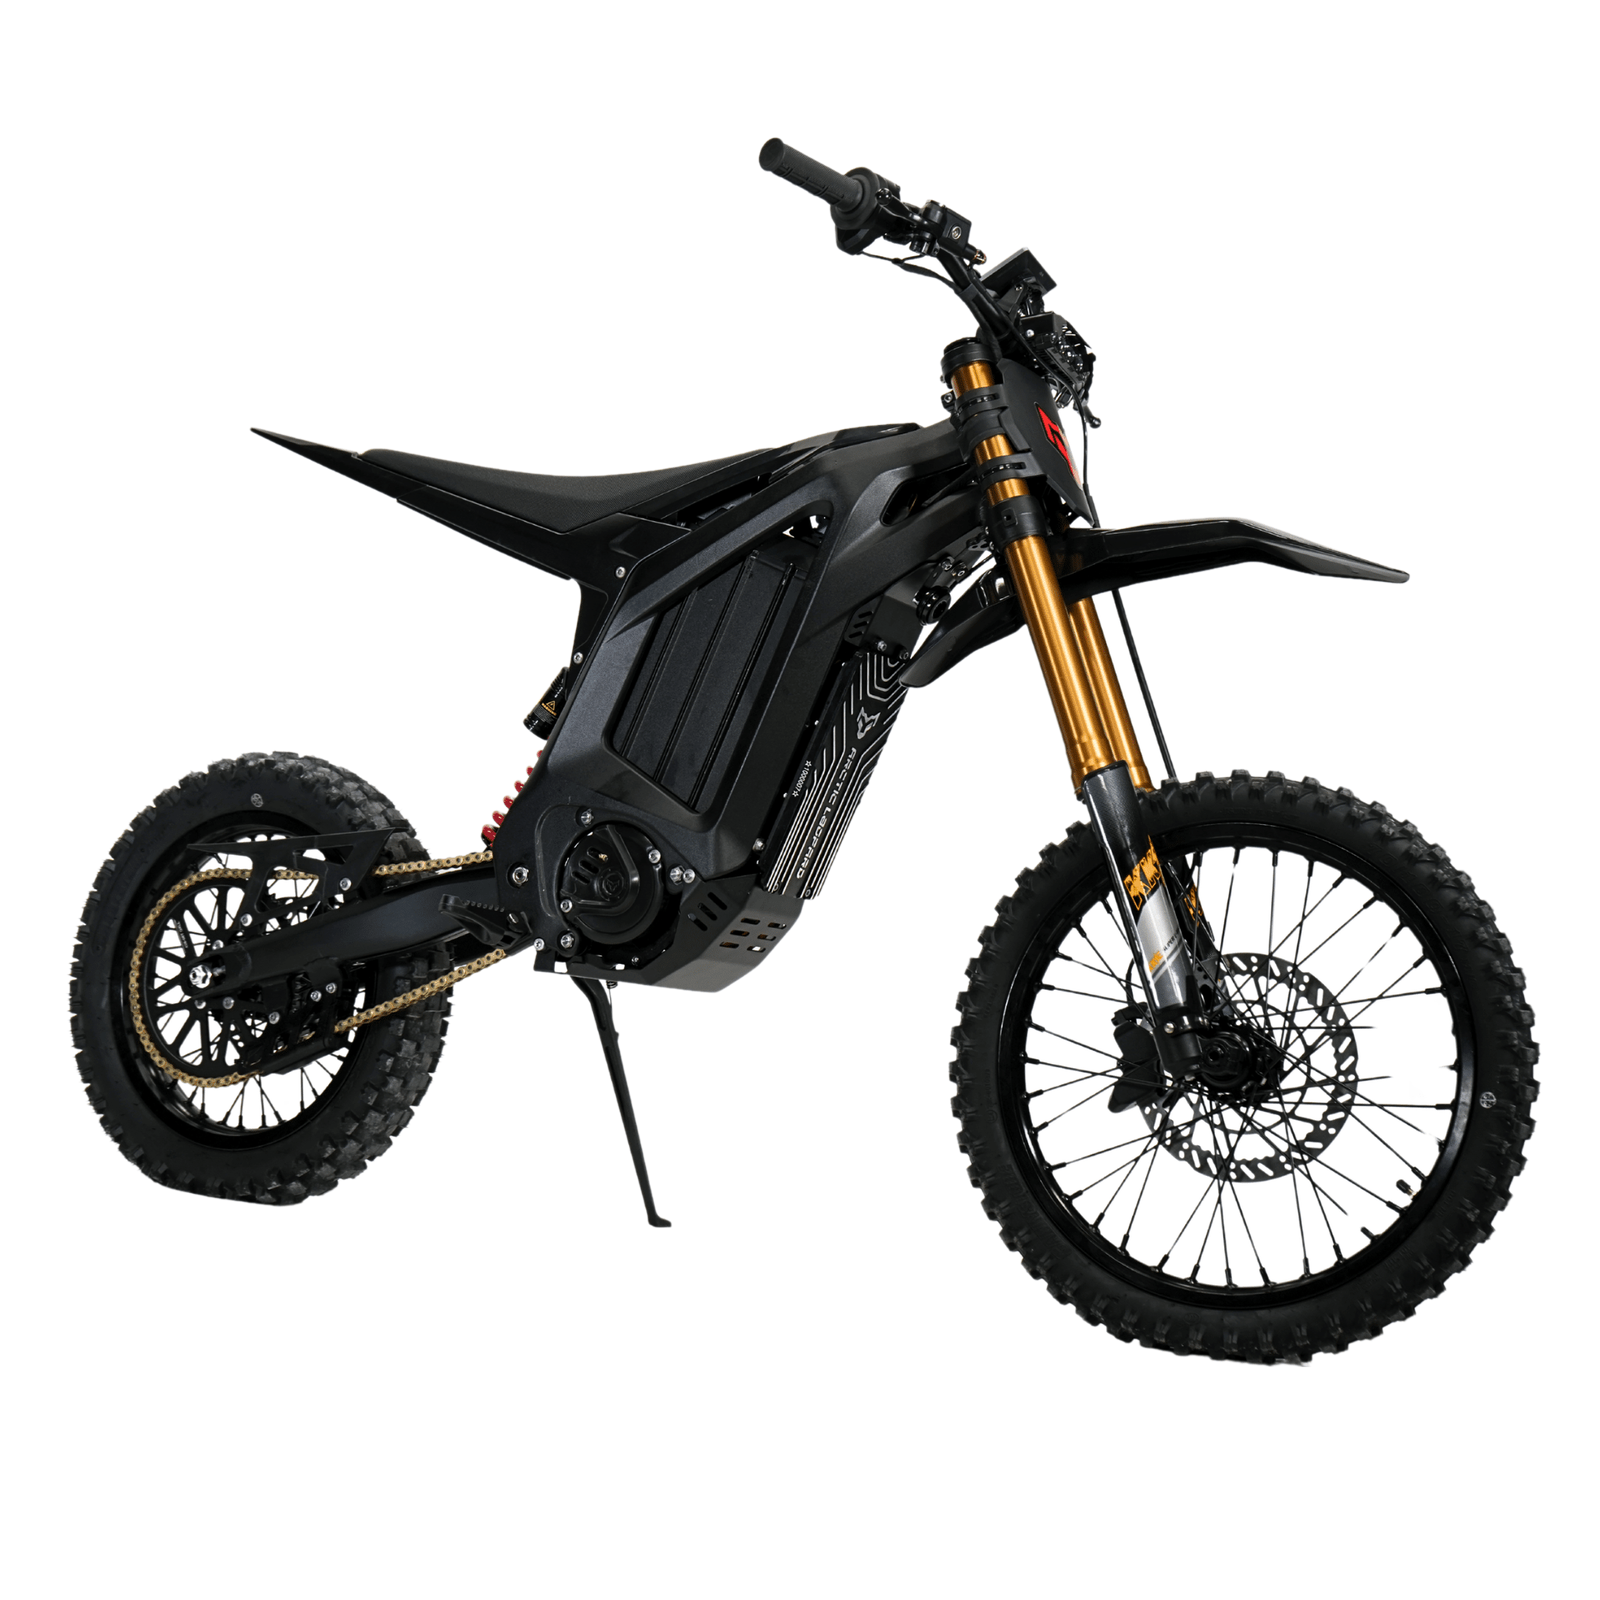
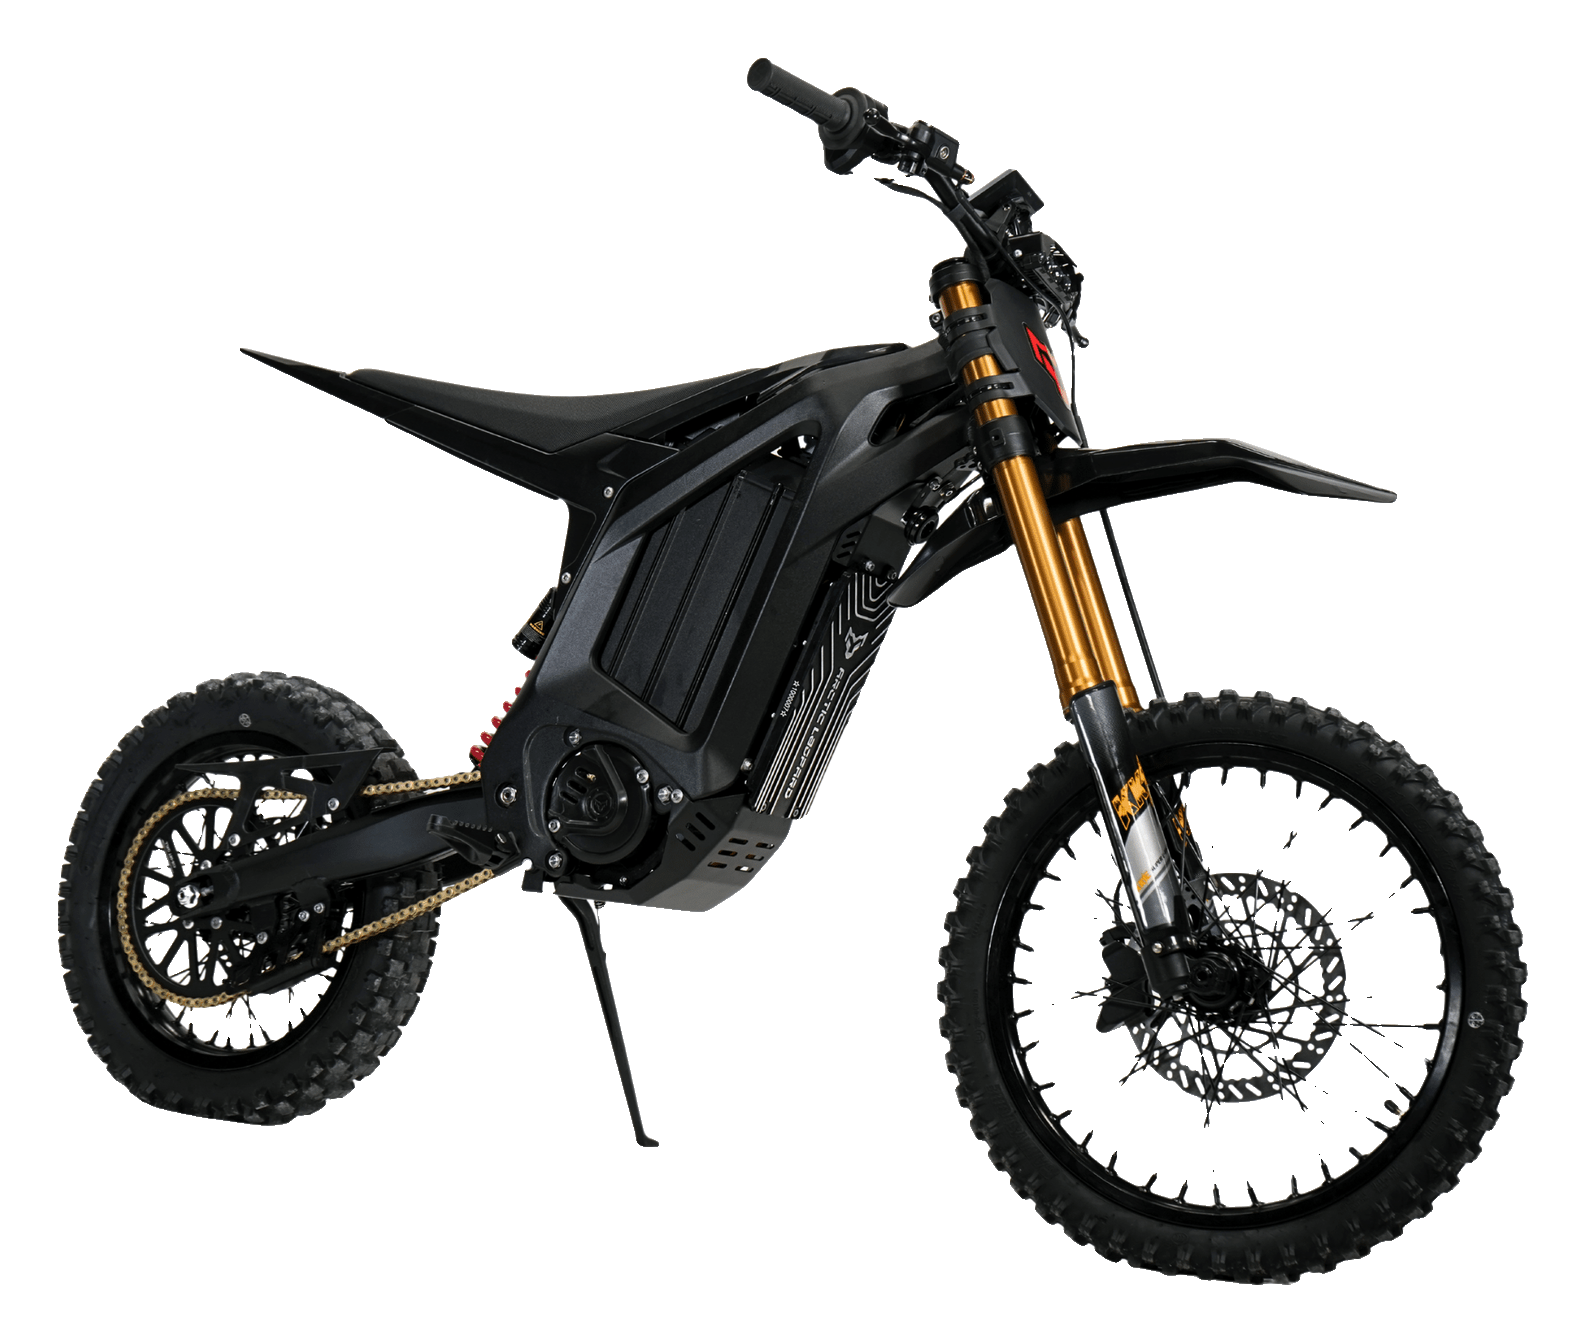
Add Voro Motors bikes with affiliate links; clean up bike image backgrounds; fix blank compare/XLB-60 images

Changed region(s): [[0.0309, 0.0305, 0.9887, 0.9769], [0.4016, 0.8243, 0.4325, 0.8548], [0.1545, 0.2442, 0.1854, 0.2748]]

diff --git a/buy.js b/buy.js
@@ -5,7 +5,7 @@ var BUY_URLS = {
   "ventus-plus": {"url":"https://blackoutmoto.com/products/2026-ventus-one-plus","source":"BLACKOUT Moto"},
   "ventus-evo": {"url":"https://ventusbikes.us/products/ventus-one-plus","source":"Ventus official"},
   "lightbee": {"url":"https://motomax.net/listing/surron-light-bee-x/","source":"MotoMax of Raleigh"},
-  "ultrabee": {"url":"https://voromotors.com/products/surron-ultra-bee","source":"VORO Motors"},
+  "ultrabee": {"url":"https://voromotors.sjv.io/jRgxnP?u=https%3A%2F%2Fvoromotors.com%2Fproducts%2Fsurron-ultra-bee","source":"VORO Motors"},
   "ultrabee-21kw": {"url":"https://www.atvwholesaleoutlet.com/sur-ron-bikes/ultra-bee/","source":"ATV Wholesale Outlet"},
   "ultrabee-hd": null,
   "ss20": {"url":"https://www.eridepro.com/products/pro-ss-2-0","source":"E Ride Pro official"},
@@ -34,8 +34,11 @@ var BUY_URLS = {
   "yozma-in10-pro": {"url":"https://yozmasport.com/products/in-10-pro","source":"Yozma official"},
   "tuttio-soleil01": {"url":"https://tuttiosport.com/products/tuttio-soleil01-electric-bike","source":"Tuttio official"},
   "stark-vargex": {"url":"https://starkfuture.com/products/stark-varg-ex","source":"Stark Future official"},
-  "altis-sigma": {"url":"https://www.voromotors.com/products/altis-sigma-best-electric-dirt-bike-98v-35ah-e-dirt-bike","source":"VORO Motors (authorized US dealer)"},
+  "altis-sigma": {"url":"https://voromotors.sjv.io/jRgxnP?u=https%3A%2F%2Fvoromotors.com%2Fproducts%2Faltis-sigma-best-electric-dirt-bike-98v-35ah-e-dirt-bike","source":"VORO Motors (authorized US dealer)"},
   "yvolt-surge-v": {"url":"https://www.yvolt.com/products/surge-v","source":"Yvolt official"},
   "supermach-sm01": {"url":"https://www.supermach.com/products/sm01-6000-electric-off-road-vehicle","source":"Supermach official"},
   "supermach-sm62": {"url":"https://www.supermach.com/products/sm62-electric-dirt-bike","source":"Supermach official"},
+  "altis-omega": {"url":"https://voromotors.sjv.io/jRgxnP?u=https%3A%2F%2Fvoromotors.com%2Fproducts%2Faltis-omega","source":"VORO Motors"},
+  "altis-delta": {"url":"https://voromotors.sjv.io/jRgxnP?u=https%3A%2F%2Fvoromotors.com%2Fproducts%2Faltis-delta","source":"VORO Motors"},
+  "rawrr-mantis-mini-r": {"url":"https://voromotors.sjv.io/jRgxnP?u=https%3A%2F%2Fvoromotors.com%2Fproducts%2Frawrr-mantis-mini-r-best-mini-electric-dirt-bike","source":"VORO Motors"},
 };

diff --git a/quiz.js b/quiz.js
@@ -142,7 +142,8 @@ var QUIZ_RANGE = {
   'rtr-lite':25, 'rtr-lite-2-0':25, 'rtr-sport':30,
   'rtr-alpha':40, 'rtr-xl':35, 'rtr-xl-alpha':40,
   'yozma-in10':30, 'yozma-in10-pro':30, 'tuttio-soleil01':22,
-  'yvolt-surge-v':55, 'supermach-sm01':45, 'supermach-sm62':45
+  'yvolt-surge-v':55, 'supermach-sm01':45, 'supermach-sm62':45,
+  'altis-omega':null, 'altis-delta':null, 'rawrr-mantis-mini-r':null
 };
 var DURATION_NEED = { short:15, medium:30, long:45 }; /* miles wanted */
 
@@ -524,7 +525,7 @@ function recCard(picks, kind, a){
   card.appendChild(el('div','qkicker', kicker));
   var top = el('div','qrec-top');
   var img = document.createElement('img');
-  img.src = 'img/bike-'+bike.id+'.png'; img.alt = bike.name+' e-moto'; img.loading='lazy';
+  img.src = 'img/bike-'+bike.id+'.png'+(typeof IMGV!=='undefined'?'?v='+IMGV:''); img.alt = bike.name+' e-moto'; img.loading='lazy';
   img.onerror = function(){ img.style.display='none'; };
   top.appendChild(img);
   var info = el('div','qrec-info');

diff --git a/data.js b/data.js
@@ -47,6 +47,9 @@ var BIKES = [
   {id:'arctic-leopard-xe-pro-s-enduro', name:'Arctic Leopard XE Pro S Enduro', price:5599, src:'msrp', weight:148, kw:20, size:'light', sparse:1},
   {id:'arctic-leopard-xe-pro-r', name:'Arctic Leopard XE Pro R', price:5799, src:'msrp', weight:175, kw:26.5, size:'mid', sparse:1},
   {id:'arctic-leopard-xf', name:'Arctic Leopard XF', price:3699, src:'msrp', weight:130, kw:12, size:'light', sparse:1},
+  {id:'altis-omega', name:'Altis Omega', price:7899, src:'msrp', weight:257, kw:55, size:'full', sparse:1},
+  {id:'altis-delta', name:'Altis Delta', price:3299, src:'msrp', weight:163, kw:13, size:'light', sparse:1},
+  {id:'rawrr-mantis-mini-r', name:'Rawrr Mantis Mini R', price:2899, src:'msrp', weight:111, kw:4.5, size:'light', sparse:1},
 ];
 
 var FITMENT = {

diff --git a/upcoming.js b/upcoming.js
@@ -34,7 +34,7 @@ var UPCOMING = [
    date:'Shipping now (ships from Lehi, UT)', price:5499,
    blurb:'SX-E15 $5,499 / Plus $5,649.',
    source:'https://ride-rfn.com/products/e15-plus'},
-  {name:'Altis Omega', bikeId:null, status:'preorder',
+  {name:'Altis Omega', bikeId:'altis-omega', status:'preorder',
    date:'Pre-order now \u2014 Pro est. Oct-Nov 2026, Alpha Dec 2026', price:7899,
    blurb:'Full-size high-power e-moto: 144V platform, semi-solid-state battery, 55 kW peak.',
    source:'https://altismotorsports.com/product/altis-omega/'},

diff --git a/compare.js b/compare.js
@@ -125,7 +125,7 @@ function renderCompare(){
     var th = document.createElement('th');
     if(b){
       var im = document.createElement('img');
-      im.src = 'img/bike-'+b.id+'.png'; im.alt = b.name+' e-moto'; im.loading = 'lazy';
+      im.src = 'img/bike-'+b.id+'.png'+(typeof IMGV!=='undefined'?'?v='+IMGV:''); im.alt = b.name+' e-moto';
       im.onerror = function(){ im.style.display='none'; };
       th.appendChild(im);
       th.appendChild(el('div','cmp-bname', b.name));

diff --git a/app.js b/app.js
@@ -785,7 +785,7 @@ function renderUpcoming(){
 
 /* ---------- submit-your-part modal ---------- */
 var SUBMIT_EMAIL = 'ebikepartspicker@gmail.com'; /* inbox for vendor part submissions */
-var IMGV = '3.10.3'; /* bump when bike images change so browsers refetch */
+var IMGV = '3.10.7'; /* bump when bike images change so browsers refetch */
 (function(){
   var overlay = $('suggestOverlay');
   if(!overlay) return;
